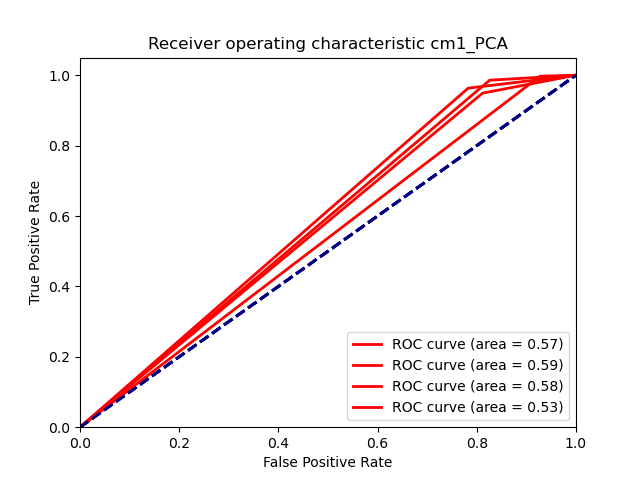
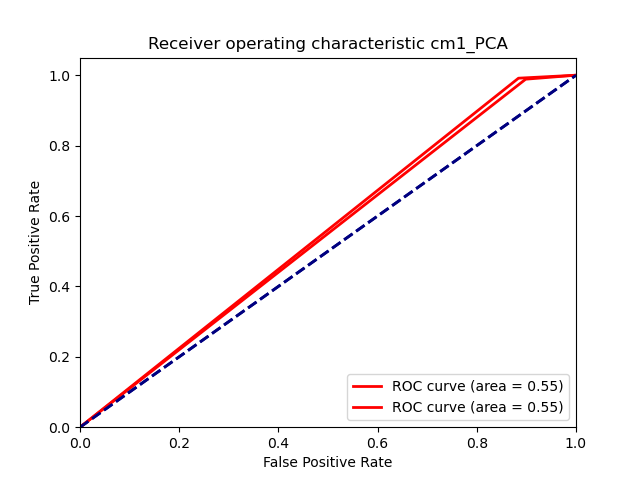
hyperparameter tuning for all models after pca completed

Changed region(s): [[0.1562, 0.1562, 0.9062, 0.8438], [0.5312, 0.6875, 0.9062, 0.8125], [0.125, 0.8438, 0.1562, 0.875]]

diff --git a/models.py b/models.py
@@ -7,8 +7,32 @@ def findbestestimator(param_grid,estimator,X,y,k=5):
     print(clf.best_params_)
     return clf
 
+def findBestNoOfComponents(X_train):
+    import numpy as np
+    import matplotlib.pyplot as plt
+    from sklearn.decomposition import PCA
+    pca = PCA(n_components = len(X_train[0]))
+    X_train1 = pca.fit_transform(X_train)
+    explained_variance = pca.explained_variance_ratio_
+    #print("explained variance {}".format(explained_variance))
+    var1=np.cumsum(np.round(pca.explained_variance_ratio_, decimals=4)*100)
+    print("Min no of components to retain 95% variance:")
+    n_chosen = len(var1)+1
+    for i in range(len(var1)):
+        if var1[i]>=99.95:
+            n_chosen=i+1
+            break
+
+    
+    plt.plot(var1)
+    plt.title('Varaince against no of components')
+    plt.savefig("figures/pca-choosing-n")
+    print(n_chosen)
+    return n_chosen
+
 
 def xgb(X_train,y_train,X_test):
+    print("XGB")
     # Fitting XGB-Classifier to the training set
     from xgboost import XGBClassifier
     xgb=XGBClassifier()
@@ -20,17 +44,15 @@ def xgb(X_train,y_train,X_test):
         'max_depth': [3, 4, 5]
         }
     
-    #classifier = findbestestimator(param_grid,xgb,X_train,y_train)
-    
-    
-    
-    classifier = XGBClassifier(colsample_bytree=0.8,gamma=5, max_depth= 4, min_child_weight= 1, subsample= 0.6)
+    #classifier = findbestestimator(param_grid,xgb,X_train,y_train) 
+    classifier = XGBClassifier(colsample_bytree=1,gamma=2, max_depth= 5, min_child_weight= 5, subsample=1)
     classifier.fit(X_train, y_train)
     # Predicting the Test set results
     y_pred = classifier.predict(X_test)
     return y_pred
 
 def rf(X_train,y_train,X_test):
+    print("rf")
     from sklearn.ensemble import RandomForestClassifier
     rf = RandomForestClassifier()
     param_grid = {
@@ -41,19 +63,16 @@ def rf(X_train,y_train,X_test):
     'min_samples_split': [8, 10, 12],
     'n_estimators': [100, 200, 300, 400, 500, 800, 1000]
     }
-    '''
-    classifier = findbestestimator(param_grid,rf,X_train,y_train)
-    
-    '''
-    classifier = RandomForestClassifier(bootstrap=True, max_depth=80, max_features=2, min_samples_leaf=3, min_samples_split=8,n_estimators=200,random_state = 0)
+    #classifier = findbestestimator(param_grid,rf,X_train,y_train)
+    classifier = RandomForestClassifier(bootstrap=True, max_depth=90, max_features=2, min_samples_leaf=3, min_samples_split=10,n_estimators=400)
     classifier.fit(X_train, y_train)
     #To quickly classify
-    
     # Predicting the Test set results
     y_pred = classifier.predict(X_test)
     return y_pred
 
 def nn(X_train,y_train,X_test):
+    print("NN")
     from sklearn.neural_network import MLPClassifier
     param_grid = [
         {
@@ -64,36 +83,39 @@ def nn(X_train,y_train,X_test):
              ]
         }
        ]
-    n = MLPClassifier(random_state=0)
+    #n = MLPClassifier(random_state=0)
     #classifier = findbestestimator(param_grid,n,X_train,y_train)
-    classifier = MLPClassifier(hidden_layer_sizes=(19,),activation='relu',solver='adam',random_state = 0)
+    classifier = MLPClassifier(hidden_layer_sizes=(11,),activation='relu',solver='adam',random_state = 0)
     classifier.fit(X_train, y_train)
     # Predicting the Test set results
     y_pred = classifier.predict(X_test)
-    return y_pred
+    return (y_pred)
 
 def svm(X_train,y_train,X_test):
+    print("SVM")
     from sklearn.svm import SVC
-    param_grid = {'C': [0.1, 1, 10, 100, 1000],  
-              'gamma': [1, 0.1, 0.01, 0.001, 0.0001], 
-              'kernel': ['rbf']}
-    s=  SVC(random_state=0)
+    # param_grid = {'C': [0.1, 1, 10, 100, 1000],  
+    #           'gamma': [1, 0.1, 0.01, 0.001, 0.0001], 
+    #           'kernel': ['rbf']}
+    param_grid = [
+    {'C': [1, 10, 100, 1000], 'kernel': ['linear']},
+    {'C': [1, 10, 100, 1000], 'gamma': [0.001, 0.0001], 'kernel': ['rbf']},
+    ]
+    #s=  SVC(random_state=0)
     #classifier = findbestestimator(param_grid,s,X_train,y_train)
-    classifier = SVC(C=1,gamma=1,kernel='rbf',random_state=0)
+    #classifier = SVC(C=100,gamma=0.1,kernel='rbf',random_state=0)
+    classifier = SVC(C=10,kernel='linear')
     classifier.fit(X_train, y_train)
     y_pred = classifier.predict(X_test)
-    return y_pred
+    return (y_pred)
 
-def pca(X_train,y_train):
-    from sklearn.decomposition import PCA
-    pca = PCA(n_components = 21)
-    X_train1 = pca.fit_transform(X_train)
-    X_test1 = pca.transform(X_test)
-    explained_variance = pca.explained_variance_ratio_
-    print("explained variance {}".format(explained_variance))
-
-    var1=np.cumsum(np.round(pca.explained_variance_ratio_, decimals=4)*100)
-    print(var1)
-    plt.plot(var1)
-    plt.show()
+def pca(X_train,X_test):
+  from sklearn.decomposition import PCA
+  n = findBestNoOfComponents(X_train)
+  pca = PCA(n_components = n)
+  X_train = pca.fit_transform(X_train)
+  X_test = pca.transform(X_test)
+  return (X_train,X_test)
+  
+  
     

diff --git a/final.py b/final.py
@@ -1,22 +1,31 @@
 import sys
 from preprocesser import preprocess
 from plotter import plotter
-from models import xgb,rf,nn,svm
+from models import xgb,rf,nn,svm,pca
 from metrics import evaluate
-def main():
-    X_train,X_test,y_test,y_train =preprocess(sys.argv[1])
-    y_pred = xgb(X_train,y_train,X_test)
-    plotter(y_test,y_pred)
-    cm,fscore,a=evaluate(y_test,y_pred)
-    y_pred = rf(X_train,y_train,X_test)
-    plotter(y_test,y_pred)
-    cm,fscore,a=evaluate(y_test,y_pred)
-    y_pred = nn(X_train,y_train,X_test)
-    plotter(y_test,y_pred)
-    cm,fscore,a=evaluate(y_test,y_pred)
+
+def runAllModels(X_train,X_test,y_test,y_train):
+    # y_pred= xgb(X_train,y_train,X_test)
+    # plotter(y_test,y_pred)
+    # cm,fscore,a=evaluate(y_test,y_pred)
+    # y_pred = rf(X_train,y_train,X_test)
+    # plotter(y_test,y_pred)
+    # cm,fscore,a=evaluate(y_test,y_pred)
+    # y_pred = nn(X_train,y_train,X_test)
+    # plotter(y_test,y_pred)
+    # cm,fscore,a=evaluate(y_test,y_pred)
     y_pred = svm(X_train,y_train,X_test)
     plotter(y_test,y_pred)
     cm,fscore,a=evaluate(y_test,y_pred)
+    
+
+
+def main():
+    X_train,X_test,y_test,y_train =preprocess(sys.argv[1])
+    runAllModels(X_train,X_test,y_test,y_train)
+    X_train,X_test= pca(X_train,X_test)
+    print(len(X_train[0]))
+    runAllModels(X_train,X_test,y_test,y_train)
 
     
 
